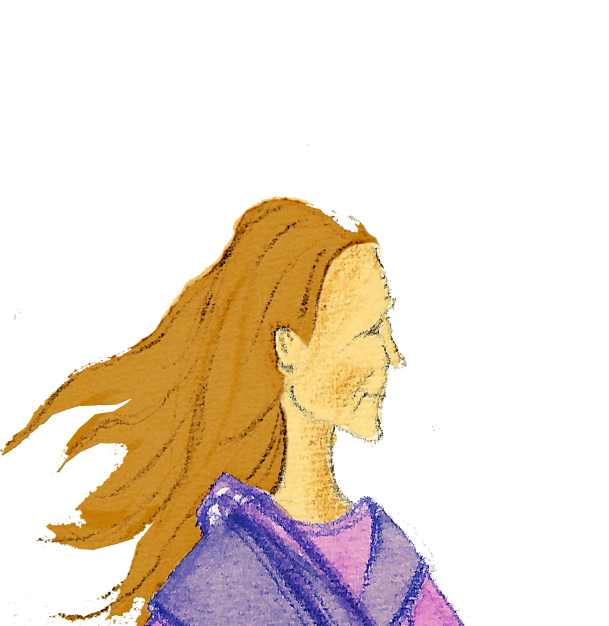
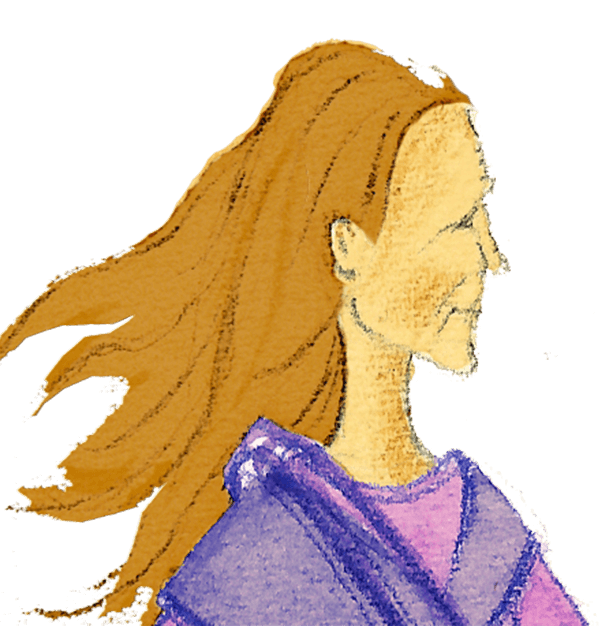
Update en.js, normal00.data.png, and normal00.data.png add rasha and rasha mom

diff --git a/src/hub/i18n/en.js b/src/hub/i18n/en.js
@@ -51,5 +51,7 @@ export default {
 	parrot: 'John the parrot',
 	mysteriousfigure: 'Mysterious figure',
 	sean: 'Sean',
+	rasha: 'Rasha',
+	rashamom: 'Mom of Rasha'
   },
 };
